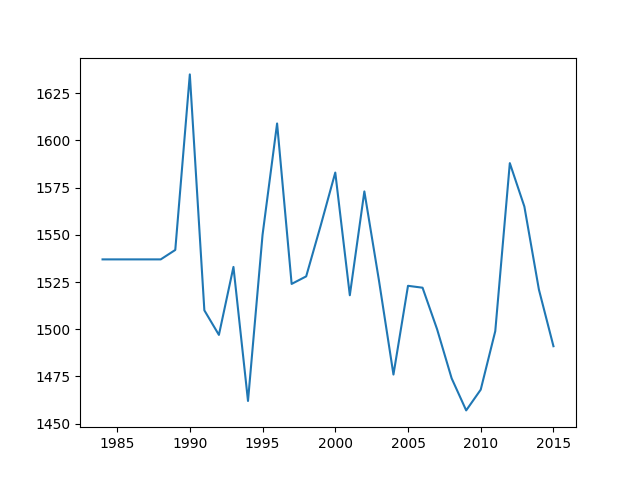
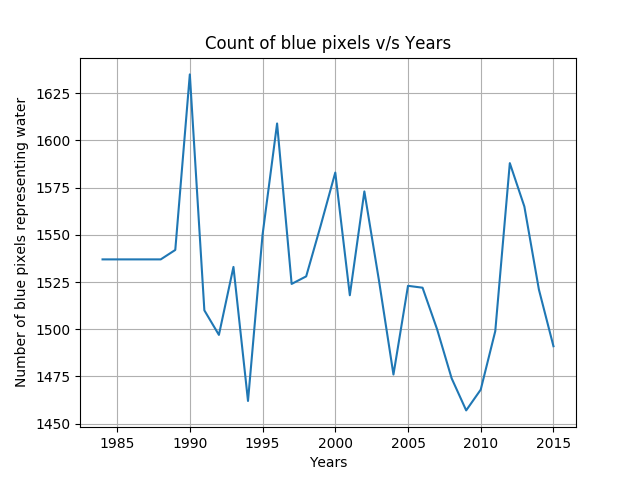
Updated Codes

diff --git a/Files/image_processing_2.py b/Files/image_processing_2.py
@@ -3,26 +3,42 @@ import numpy as np
 import matplotlib.pyplot as plt
 
 k = 1984
-b = '2016_crop.jpg'
+
+# Declaring two arrays which will be storing count of blue pixels representing water in the image and years.
 count = np.array([])
 years = np.array([])
 
 while(k<2016):
     a = str(k)
     a = a + '_crop.jpg'
-    im1 = Image.open(a, 'r')
+    b = 'Images/Cropped Images/' + a
+
+    # Opening the image to be used in python
+    im1 = Image.open(b, 'r')
     flag = 0
     blue = 0
     for i in range(im1.size[0]):
         for j in range(im1.size[1]):
             l = im1.getpixel((i,j))
+
+            # If in (R,G,B) value of a pixel, value of B is more than 178 then it is a blue pixel representing water
+            # Hence increament the local count for blue pixel of that image
             if(l[2]>178):
                 blue=blue+1
+
+    # Concatenate the newly updated values in the actual array
     ans = np.array([blue])
     count = np.concatenate((count, ans))
     year = np.array([k])
     years = np.concatenate((years, year))
+
+    # Increament k to go to next year
     k = k + 1
 
+# Plot the graph using plt
 plt.plot(years,count)
+plt.ylabel('Number of blue pixels representing water')
+plt.xlabel('Years')
+plt.grid(True)
+plt.title('Count of blue pixels v/s Years')
 plt.show()
